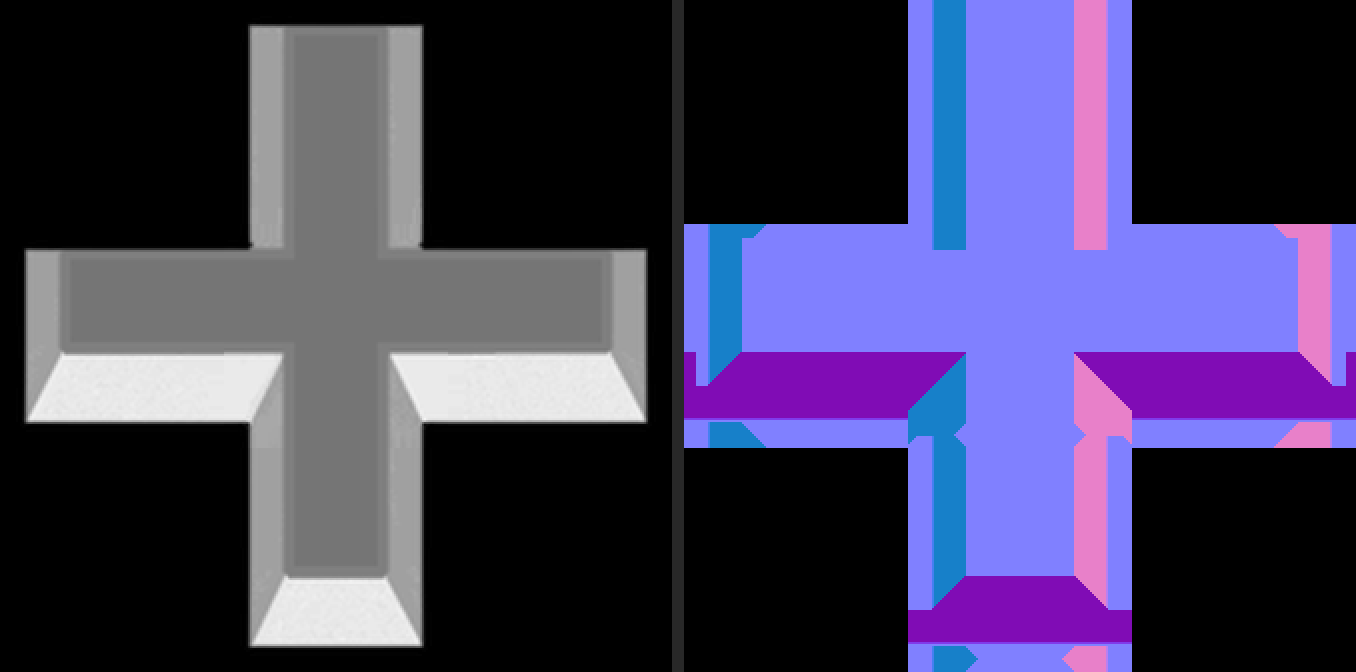
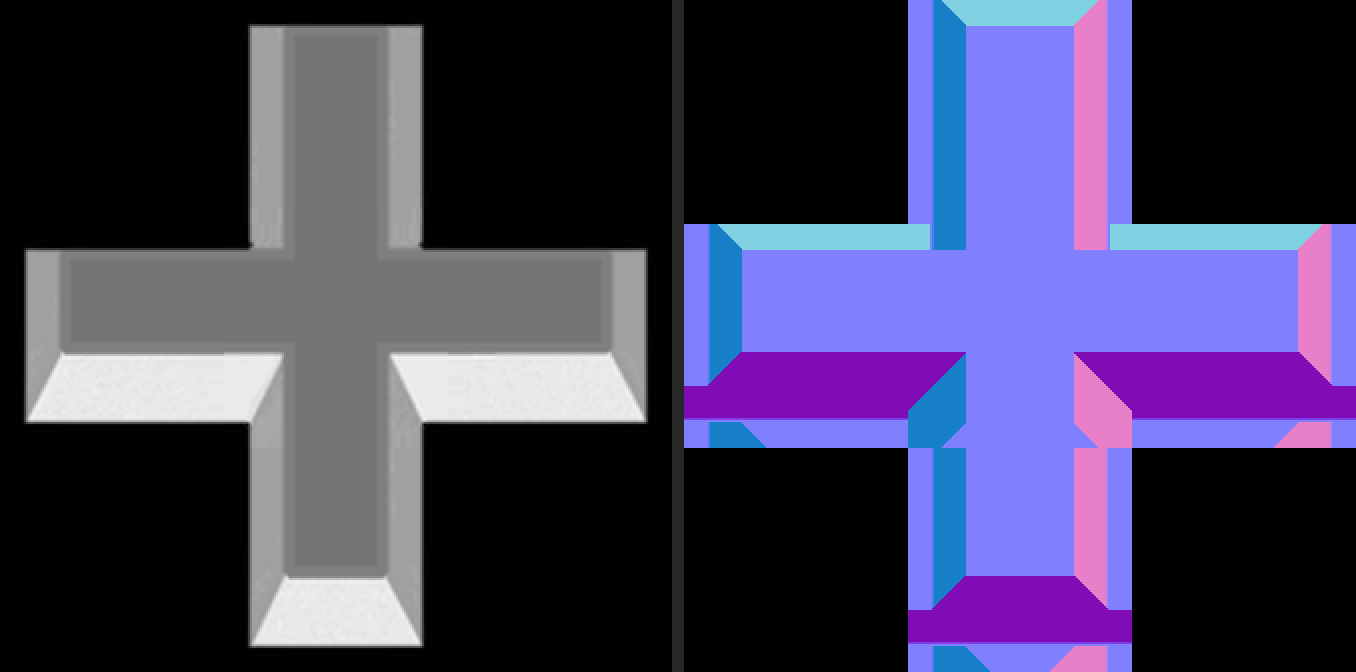
fix(analytic-wall-normals): I1 — restore the north back-edge bevel band; kill the ring-pass roll wrap

diff --git a/marigold/atlas_geometry.py b/marigold/atlas_geometry.py
@@ -145,6 +145,11 @@ def build_cell(bits: tuple[int, int, int, int], win: int, gm: dict, tops: dict) 
     front = front | gainE | gainW
     east = (bandE & ~gainE) | concave_w
     west = (bandW & ~gainW) | concave_e
+    # The NORTH back-edge bevel (user red-outline 2026-07-29): the exposed north boundary
+    # carries the north-tilted band (the wall's back edge seen from above) — it follows
+    # the silhouette around arm junctions and never crosses a connected edge.
+    d_above = _dist_along(fp, axis=0, reverse=True)      # px above a body's north boundary
+    north = ~fp & (d_above > 0) & (d_above <= o) & ~(front | east | west)
 
     out = np.tile(tops["top"], (win, win, 1))
     wsum = np.ones((win, win))
@@ -159,9 +164,11 @@ def build_cell(bits: tuple[int, int, int, int], win: int, gm: dict, tops: dict) 
             return d, np.full(d.shape, fr)
         if key == "east":
             return np.where(concave_w, d_right, dA_right), np.where(concave_w, fr + t, sd)
-        return np.where(concave_e, d_left, dA_left), np.where(concave_e, fr + t, sd)
+        if key == "west":
+            return np.where(concave_e, d_left, dA_left), np.where(concave_e, fr + t, sd)
+        return d_above, np.full(d_above.shape, o)  # north: the back-edge bevel band
 
-    for mask, key in ((front, "front"), (east, "east"), (west, "west")):
+    for mask, key in ((front, "front"), (east, "east"), (west, "west"), (north, "north")):
         d, reach = face_depth(key)
         ramp = np.where(mask, np.clip((reach + t - d) / max(t, 1), 0.0, 1.0), 0.0)
         # face·ramp + top·(1−ramp) INSIDE the mask — the ramp genuinely fades to the top
@@ -172,7 +179,7 @@ def build_cell(bits: tuple[int, int, int, int], win: int, gm: dict, tops: dict) 
 
     # Outline: rings the silhouette (footprint + faces). Inherits the nearest face's tilt
     # cheaply by ONE more dilation pass carrying the current field outward.
-    covered = fp | front | east | west
+    covered = fp | front | east | west | north
     ring = _dilate(covered, o) & ~covered
     field_src = out.copy()
     w_src = wsum.copy()
@@ -181,6 +188,11 @@ def build_cell(bits: tuple[int, int, int, int], win: int, gm: dict, tops: dict) 
             sy, sx = shift
             src_f = np.roll(field_src, (sy, sx), axis=(0, 1))
             src_w = np.roll(w_src, (sy, sx), axis=(0, 1))
+            # np.roll WRAPS — a window's bottom outline must never inherit its top edge.
+            if sy == 1: src_w[0, :] = 0
+            if sy == -1: src_w[-1, :] = 0
+            if sx == 1: src_w[:, 0] = 0
+            if sx == -1: src_w[:, -1] = 0
             take = ring & (w_src == 0) & (src_w > 0)
             field_src[take] = src_f[take]
             w_src[take] = src_w[take]

diff --git a/docs/work/2026-07-29-analytic-wall-normals/issues.md b/docs/work/2026-07-29-analytic-wall-normals/issues.md
@@ -26,3 +26,12 @@ wedge widens to the apron's foot; its side-face normal holds to full depth inste
 fading at `sd`). Gate unchanged (flat 0.318°, seams 0.00, relief 36.0 %); the cross
 side-by-side now matches every red line, and the in-game torch drill shows full-height
 mitered face ends. `corners-final.png` updated.
+
+**I1 second refinement (user recolor annotation):** the footprint rewrite had LOST the
+north back-edge bevel — `band_normals` defined it (40°) but nothing assigned it, so the
+run tops inherited the flat top normal. Restored as a proper band on every exposed north
+boundary (follows the silhouette, hooks around arm junctions — the annotation's red
+path); also fixed a ring-inheritance `np.roll` WRAP leak that let a window's bottom
+outline inherit its top edge's bevel. Gate: relief 39.4 % (the bevel adds real face
+share), flat 0.318°, seams 0.00 unchanged. `corners-final.png` updated — the assembly
+now reads as a coherent beveled prism end to end.
